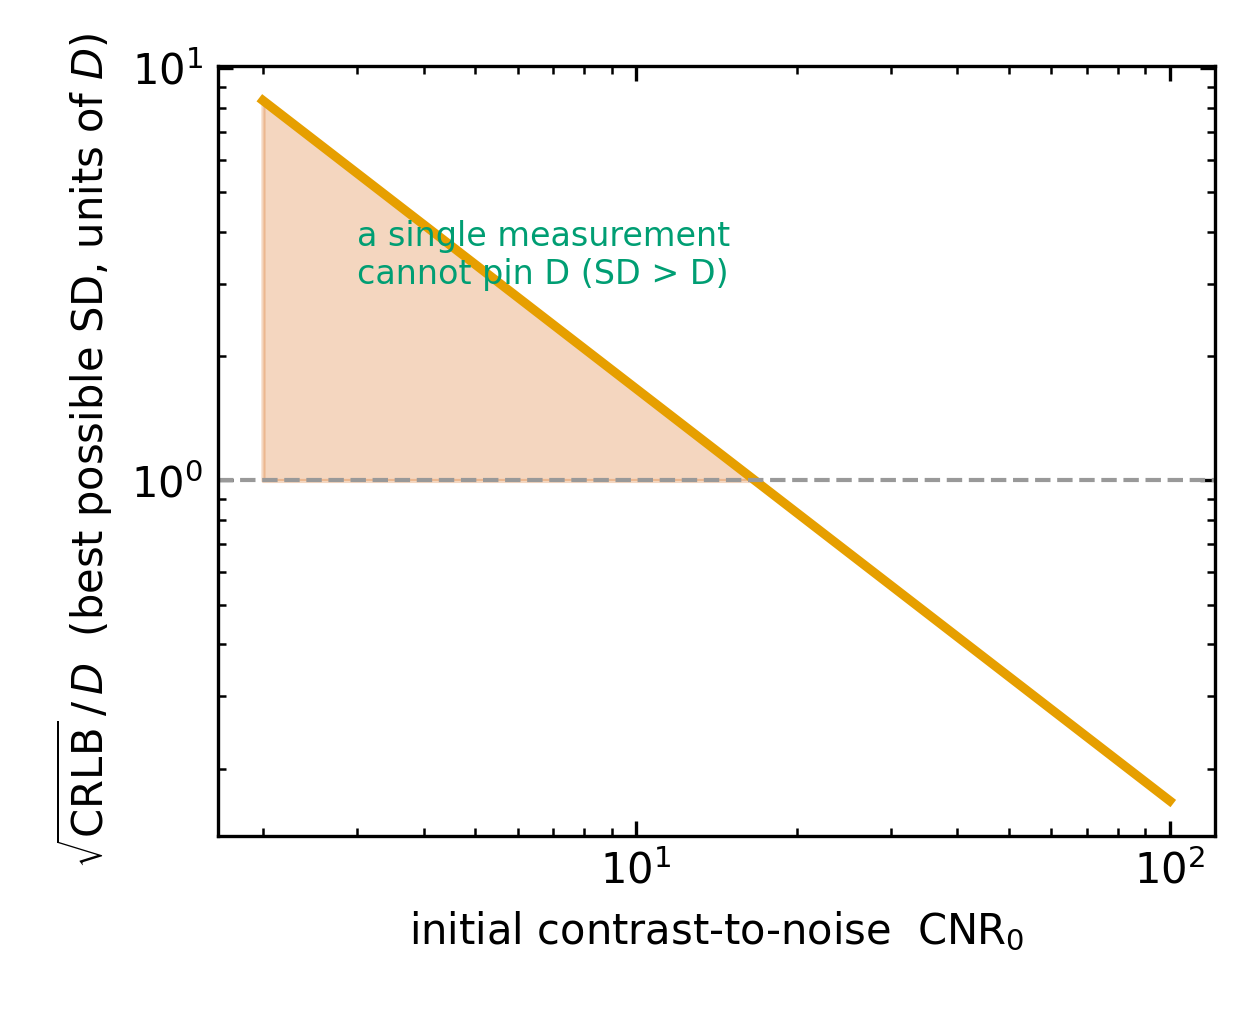
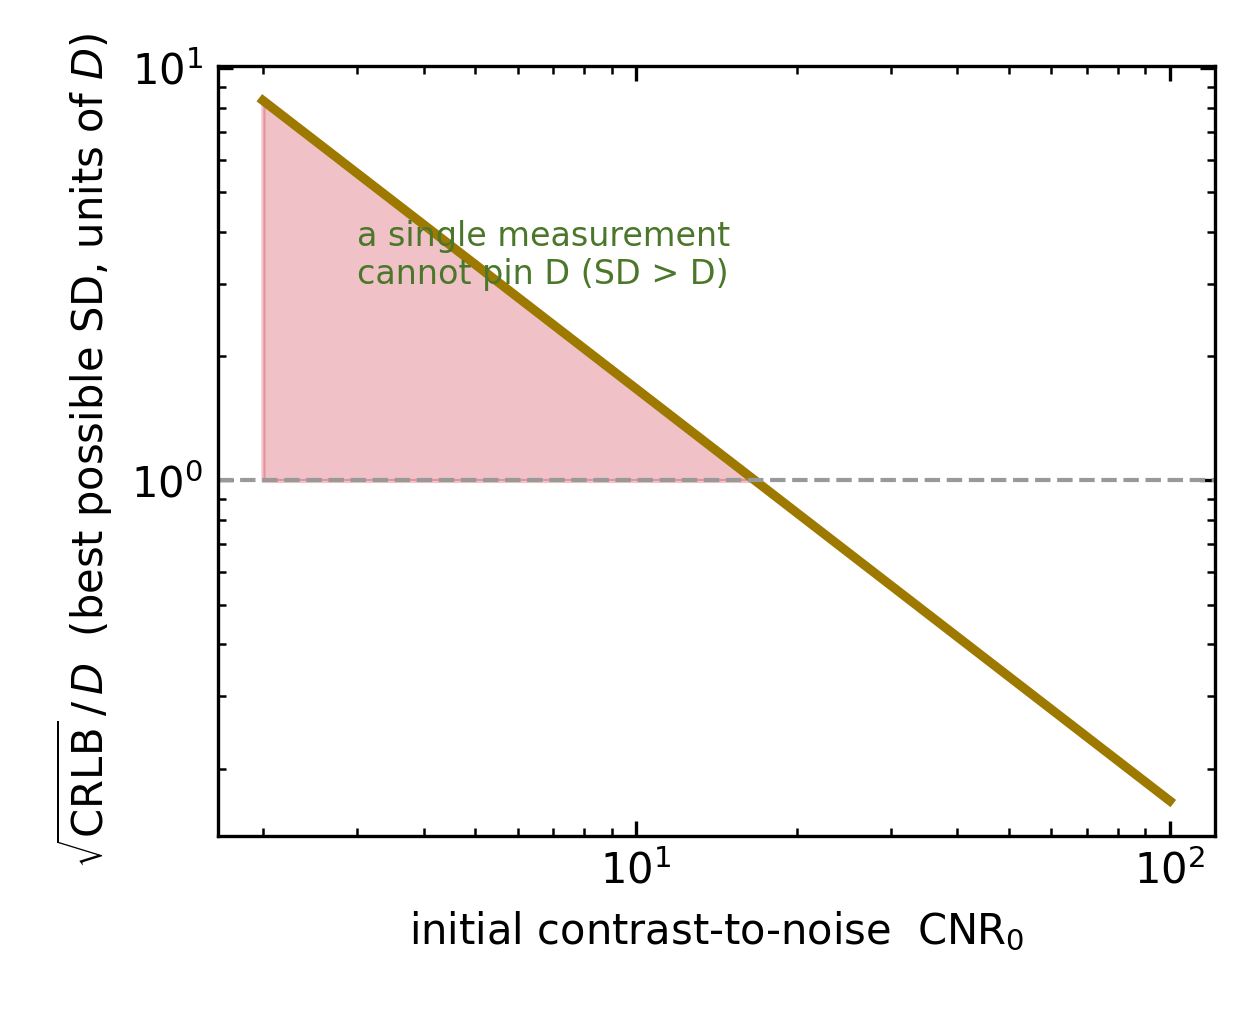
Switch poster palette to Spanish flag set, split wall-fold schematic into transparent per-panel images, refresh PLOT_STYLE doc

diff --git a/illustrations/wall-fold-schematic/build_wall_fold_schematic.py b/illustrations/wall-fold-schematic/build_wall_fold_schematic.py
@@ -1,11 +1,15 @@
 """Wall-and-fold schematic (poster Panel 2A): the wall at zero, the reflected
 tail, and the tilted MSD slope it produces.
 
-A pure matplotlib illustration -- no data input. Left panel: a fitted-variance
-distribution bounded at zero, with the forbidden negative tail folded back across
-the wall so the distribution piles up and skews right (mean above the true value).
-Right panel: that per-frame bias grows as CNR falls across late frames, tilting the
-MSD slope and overestimating D. Writes the figure into this folder.
+A pure matplotlib illustration -- no data input. The left panel shows a
+fitted-variance distribution bounded at zero, with the forbidden negative tail
+folded back across the wall so the distribution piles up and skews right (mean
+above the true value). The right panel shows that per-frame bias growing as CNR
+falls across late frames, tilting the MSD slope and overestimating D.
+
+Each panel is written as its own image so the poster can place them
+independently, and every output is saved with a transparent background. A
+combined two-panel image is also written for callers that want both at once.
 
 Requires the sibling `curved-text` package (the curved on-curve labels):
     .venv/Scripts/python.exe -m pip install -e ../curved-text
@@ -26,18 +30,28 @@ import matplotlib.pyplot as plt  # noqa: E402
 
 from curved_text import CurvedText  # noqa: E402
 
-# Poster palette (Okabe-Ito, colourblind-safe): blue = the true value,
-# red = the biased/inflated value.
-ROLE1 = "#0072B2"   # mediterranean blue -- the true value
-ROLE4 = "#D55E00"   # spanish red        -- the biased / inflated value
+# Spanish flag palette (from the plot style guide). Three semantic
+# colours: blue = the true value, red = the biased/inflated value, indigo = the
+# fitted-variance distribution family (distribution of fits, unbounded estimate,
+# reflected tail, forbidden tail), drawn at descending alpha so the one hue
+# tells one story.
+ROLE1 = "#0077c8"   # blue     -- the true value
+ROLE4 = "#c60b1e"   # flag red -- the biased / inflated value
+INDIGO = "#540d6e"  # indigo   -- the fitted-variance distribution family
 
-OUT = Path(__file__).resolve().parent / "wall_fold_schematic.png"
+HERE = Path(__file__).resolve().parent
+OUT_LEFT = HERE / "wall_fold_schematic_left.png"
+OUT_RIGHT = HERE / "wall_fold_schematic_right.png"
+OUT_COMBINED = HERE / "wall_fold_schematic.png"
 
 
-def build() -> Path:
-    fig, (axL, axR) = plt.subplots(1, 2, figsize=(8.0, 3.4))
+def _plot_left(axL):
+    """Draw the fold-at-the-wall panel; return the curves the labels ride on.
 
-    # --- Left: the fold at the wall ---------------------------------------
+    Plotting must precede ``tight_layout``, but the CurvedText labels need the
+    settled display transform, so labelling is split into ``_label_left`` and
+    called after layout.
+    """
     v = np.linspace(-3.0, 4.0, 700)
     m_true, sd = 0.5, 1.1
     g_un = np.exp(-0.5 * ((v - m_true) / sd) ** 2)     # estimate with no wall
@@ -55,19 +69,19 @@ def build() -> Path:
     m_folded = (np.trapezoid(v[pos] * folded[pos], v[pos])
                 / np.trapezoid(folded[pos], v[pos]))
 
-    axL.fill_between(v[pos], 0, g[pos], color=ROLE4, alpha=0.15, lw=0)
-    axL.fill_between(v[pos], 0, g_ref[pos], color=ROLE4, alpha=0.15, lw=0)
-    # One hue (the three are one story); alpha ranks them: faint = the
-    # hypothetical unbounded estimate, medium = the reflected mechanism, full =
-    # the resulting distribution of fits.
-    axL.plot(v[pos], g[pos], color=ROLE4, lw=1.8, alpha=0.40)              # realizable
-    axL.plot(v[~pos], g[~pos], color=ROLE4, lw=1.4, alpha=0.40,
+    axL.fill_between(v[pos], 0, g[pos], color=INDIGO, alpha=0.15, lw=0)
+    axL.fill_between(v[pos], 0, g_ref[pos], color=INDIGO, alpha=0.15, lw=0)
+    # One hue (the distribution family is one story); alpha ranks them: faint =
+    # the hypothetical unbounded estimate, medium = the reflected mechanism,
+    # full = the resulting distribution of fits.
+    axL.plot(v[pos], g[pos], color=INDIGO, lw=1.8, alpha=0.40)             # realizable
+    axL.plot(v[~pos], g[~pos], color=INDIGO, lw=1.4, alpha=0.40,
              ls=(0, (1, 1.6)))                                            # forbidden
-    axL.plot(v[pos], g_ref[pos], color=ROLE4, lw=1.6, alpha=0.70)          # reflected
-    axL.plot(v[pos], folded[pos], color=ROLE4, lw=1.8, ls=(0, (4, 2)))     # sum (fits)
+    axL.plot(v[pos], g_ref[pos], color=INDIGO, lw=1.6, alpha=0.70)         # reflected
+    axL.plot(v[pos], folded[pos], color=INDIGO, lw=1.8, ls=(0, (4, 2)))    # sum (fits)
     axL.axvline(0.0, color="k", lw=1.6)
     axL.axvline(m_true, color=ROLE1, ls=":", lw=1.1)
-    axL.axvline(m_folded, color="#7a2f00", ls=":", lw=1.1)
+    axL.axvline(m_folded, color=ROLE4, ls=":", lw=1.1)
 
     # The bias is the gap between the two; the names run vertically along their
     # own dotted lines. Bias sits to the right of the arrow, level with it.
@@ -80,7 +94,7 @@ def build() -> Path:
     axL.text(m_true - 0.13, 2.40, "true $\\sigma^2$", fontsize=7, color=ROLE1,
              rotation=90, rotation_mode="anchor", va="center", ha="right")
     axL.text(m_folded - 0.13, 2.40, "mean $\\langle\\hat\\sigma^2\\rangle$",
-             fontsize=7, color="#7a2f00", rotation=90, rotation_mode="anchor",
+             fontsize=7, color=ROLE4, rotation=90, rotation_mode="anchor",
              va="center", ha="right")
 
     axL.set_xlabel("fitted variance,  $\\hat\\sigma^2$")
@@ -90,7 +104,29 @@ def build() -> Path:
     axL.set_xticks([])
     axL.set_yticks([])
 
-    # --- Right: the tilted MSD slope --------------------------------------
+    return {"v": v, "g": g, "g_ref": g_ref, "folded": folded}
+
+
+def _label_left(axL, data):
+    """Curve names run parallel to each curve and close to it. The rotation
+    needs the settled display transform, so this is called after layout."""
+    v, g, g_ref, folded = data["v"], data["g"], data["g_ref"], data["folded"]
+    fm = (v >= -2.4) & (v <= -0.3)
+    CurvedText(v[fm], g[fm], "forbidden:  variance < 0", axL, offset=5.0,
+               pos=0.5, anchor="center", color=INDIGO, alpha=0.7, fontsize=7)
+    sm = (v >= 0.3) & (v <= 2.3)
+    CurvedText(v[sm], folded[sm], "distribution of fits", axL, offset=5.0,
+               pos=0.6, anchor="center", color=INDIGO, fontsize=7)
+    um = (v >= 1.0) & (v <= 3.2)
+    CurvedText(v[um], g[um], "unbounded estimate", axL, offset=-6.0,
+               pos=0.4, anchor="center", color=INDIGO, fontsize=7)
+    rm = (v >= 0.4) & (v <= 2.4)
+    CurvedText(v[rm], g_ref[rm], "reflected tail", axL, offset=5.5,
+               pos=0.65, anchor="center", color=INDIGO, fontsize=7)
+
+
+def _plot_right(axR):
+    """Draw the tilted-MSD-slope panel; return the curves the labels ride on."""
     t = np.linspace(0, 3.0, 7)
     slope_true = 0.04
     true_line = slope_true * t
@@ -107,7 +143,7 @@ def build() -> Path:
         axR.plot([ti, ti], [tr, bi], color="#bbb", lw=0.8, zorder=0)
 
     # The slope-gap annotation is the payload; the two line labels are added after
-    # layout (below), rotated to the line slope and pushed to opposite sides.
+    # layout (in _label_right), rotated to the line slope and pushed to opposite sides.
     axR.annotate("", xy=(2.93, fit_line[-1]), xytext=(2.93, true_line[-1]),
                  arrowprops=dict(arrowstyle="<->", color="k", lw=0.9,
                                  mutation_scale=8))
@@ -121,33 +157,59 @@ def build() -> Path:
     axR.set_xticks([])
     axR.set_yticks([])
 
-    fig.tight_layout()
+    return {"t": t, "true_line": true_line, "fit_line": fit_line}
 
-    # Right panel: label both lines with CurvedText at the same fractional
-    # position on each line, offset to opposite sides so they hug their lines.
+
+def _label_right(axR, data):
+    """Label both lines with CurvedText at the same fractional position on each
+    line, offset to opposite sides so they hug their lines. Called after layout."""
+    t, true_line, fit_line = data["t"], data["true_line"], data["fit_line"]
     CurvedText(t, fit_line, "inflated fit", axR, pos=0.4, anchor="center",
                offset=5.0, color=ROLE4, fontsize=7)
     CurvedText(t, true_line, "true slope $\\propto D$", axR, pos=0.4,
                anchor="center", offset=-5.0, color=ROLE1, fontsize=7)
 
-    # Curve names run parallel to each curve and close to it (the rotation needs
-    # the settled display transform, so this comes after the layout).
-    fm = (v >= -2.4) & (v <= -0.3)
-    CurvedText(v[fm], g[fm], "forbidden:  variance < 0", axL, offset=5.0,
-               pos=0.5, anchor="center", color=ROLE4, alpha=0.7, fontsize=7)
-    sm = (v >= 0.3) & (v <= 2.3)
-    CurvedText(v[sm], folded[sm], "distribution of fits", axL, offset=5.0,
-               pos=0.6, anchor="center", color=ROLE4, fontsize=7)
-    um = (v >= 1.0) & (v <= 3.2)
-    CurvedText(v[um], g[um], "unbounded estimate", axL, offset=-6.0,
-               pos=0.4, anchor="center", color=ROLE4, fontsize=7)
-    rm = (v >= 0.4) & (v <= 2.4)
-    CurvedText(v[rm], g_ref[rm], "reflected tail", axL, offset=5.5,
-               pos=0.65, anchor="center", color=ROLE4, fontsize=7)
-    fig.savefig(OUT, dpi=300)
+
+def build_left() -> Path:
+    """Standalone left panel (the fold at the wall), transparent background."""
+    fig, axL = plt.subplots(figsize=(4.0, 3.4))
+    data = _plot_left(axL)
+    fig.tight_layout()
+    _label_left(axL, data)
+    fig.savefig(OUT_LEFT, dpi=300, transparent=True)
     plt.close(fig)
-    return OUT
+    return OUT_LEFT
+
+
+def build_right() -> Path:
+    """Standalone right panel (the tilted MSD slope), transparent background."""
+    fig, axR = plt.subplots(figsize=(4.0, 3.4))
+    data = _plot_right(axR)
+    fig.tight_layout()
+    _label_right(axR, data)
+    fig.savefig(OUT_RIGHT, dpi=300, transparent=True)
+    plt.close(fig)
+    return OUT_RIGHT
+
+
+def build_combined() -> Path:
+    """Both panels side by side in one image, transparent background."""
+    fig, (axL, axR) = plt.subplots(1, 2, figsize=(8.0, 3.4))
+    data_l = _plot_left(axL)
+    data_r = _plot_right(axR)
+    fig.tight_layout()
+    _label_left(axL, data_l)
+    _label_right(axR, data_r)
+    fig.savefig(OUT_COMBINED, dpi=300, transparent=True)
+    plt.close(fig)
+    return OUT_COMBINED
+
+
+def build() -> list[Path]:
+    """Write both standalone panels and the combined image. Returns the paths."""
+    return [build_left(), build_right(), build_combined()]
 
 
 if __name__ == "__main__":
-    print(build())
+    for path in build():
+        print(path)

diff --git a/scripts/poster_style.py b/scripts/poster_style.py
@@ -15,17 +15,22 @@ from pathlib import Path
 import numpy as np
 from matplotlib.colors import to_rgb
 
-# --- Poster palette (Okabe-Ito colourblind-safe set, Madrid-localised names) -
-# Five hues that stay distinguishable under common colour-vision deficiencies,
-# each legible on white. Roles carry fixed meaning: blue = the true value,
-# red = the biased/inflated value (true-vs-biased reads as blue-vs-red); blue /
-# gold / green are the three profile shapes; purple is reserved for fills and
-# region bands at low alpha.
-ROLE1 = "#0072B2"   # mediterranean blue  -- the true value / Gaussian shape
-ROLE2 = "#E69F00"   # flag gold           -- fitted-variance curve / Voigt shape
-ROLE3 = "#009E73"   # olive green         -- generalized-Gaussian shape
-ROLE4 = "#D55E00"   # spanish red         -- the biased/inflated value
-ROLE5 = "#CC79A7"   # castilian purple    -- fills, region bands (use low alpha)
+# --- Poster palette (Spanish flag set, from the plot style guide) --
+# Five flag-themed hues that stay mutually distinguishable under red-green and
+# blue-yellow colour-vision deficiency. Roles carry fixed meaning: blue = the
+# true value, red = the biased/inflated value (true-vs-biased reads as
+# blue-vs-red); blue / yellow / green are the three profile shapes; indigo is
+# reserved for fills and region bands at low alpha. The set does not survive
+# grayscale (red / green / blue collapse to nearly one lightness), so never let
+# a red / green / blue distinction carry meaning that must read without colour.
+ROLE1 = "#0077c8"   # blue                 -- the true value / Gaussian shape
+ROLE2 = "#ffc400"   # flag yellow (gualda) -- fitted-variance curve / Voigt shape
+ROLE3 = "#4a7729"   # fern green           -- generalized-Gaussian shape
+ROLE4 = "#c60b1e"   # flag red             -- the biased/inflated value
+ROLE5 = "#540d6e"   # indigo               -- fills, region bands (use low alpha)
+# Flag yellow is bright and low-contrast on white; for thin lines or text in
+# yellow read against the page, use this deep companion instead (plot_style.md).
+YELLOW_DEEP = "#9E7900"  # deep gold        -- flag yellow as a thin line / text
 
 # DICE palette (Montana State; retained as a fallback for non-poster scripts).
 DICE_BLUE = "#003f7f"
@@ -39,10 +44,11 @@ SHAPE_LABEL = {
     "generalized_gaussian": "generalized-Gaussian",
     "genGauss": "generalized-Gaussian",
 }
-# One role colour per profile shape: roles 1 / 2 / 3 (the strong-contrast lines).
+# One role colour per profile shape (the strong-contrast lines). Voigt takes the
+# deep gold rather than bright flag yellow so the thin line reads on white.
 SHAPE_COLOR = {
     "gaussian": ROLE1,
-    "voigt": ROLE2,
+    "voigt": YELLOW_DEEP,
     "generalized_gaussian": ROLE3,
     "genGauss": ROLE3,
 }

diff --git a/experiments/dfree-calibration/render_bias_panels.py b/experiments/dfree-calibration/render_bias_panels.py
@@ -22,8 +22,8 @@ import matplotlib  # noqa: E402
 matplotlib.use("Agg")
 import matplotlib.pyplot as plt  # noqa: E402
 
-from poster_style import (ROLE2, ROLE4, ROLE5, SHAPE_COLOR, SHAPE_LABEL,  # noqa: E402
-                          parse_dense_deciles, style)
+from poster_style import (ROLE4, ROLE5, SHAPE_COLOR, SHAPE_LABEL,  # noqa: E402
+                          YELLOW_DEEP, parse_dense_deciles, style)
 
 DENSE = HERE / "dense_calibration_and_test.txt"
 OUT_BIAS = HERE / "poster_panel3_bias.png"
@@ -46,7 +46,7 @@ def build_bias_curves() -> Path | None:
     # failing one (inverse-variance) -- both biased relative to the unbiased line.
     ax.loglog(g["cnr"], g["ols"], "o-", ms=4, lw=2.0, color=ROLE4,
               label="unweighted (OLS)")
-    ax.loglog(g["cnr"], g["inv_var"], "o-", ms=4, lw=2.0, color=ROLE2,
+    ax.loglog(g["cnr"], g["inv_var"], "o-", ms=4, lw=2.0, color=YELLOW_DEEP,
               label="inverse-variance")
     ax.set_xlabel(r"initial contrast-to-noise  CNR$_0$")
     ax.set_ylabel(r"$\langle D_\mathrm{est}\rangle\,/\,D_\mathrm{true}$")
@@ -73,7 +73,7 @@ def build_corrected_bias() -> Path | None:
     ax.axhline(1.0, color="#666666", lw=1.0)
     for shape, d in shapes.items():
         ax.semilogx(d["cnr"], d["folded"], "o-", ms=4, lw=1.8,
-                    color=SHAPE_COLOR.get(shape, ROLE2),
+                    color=SHAPE_COLOR.get(shape, YELLOW_DEEP),
                     label=SHAPE_LABEL.get(shape, shape))
     ax.set_xlabel(r"initial contrast-to-noise  CNR$_0$")
     ax.set_ylabel(r"corrected  $\langle \hat D\rangle / D_\mathrm{true}$")

diff --git a/scripts/poster_figures.py b/scripts/poster_figures.py
@@ -34,7 +34,7 @@ import matplotlib  # noqa: E402
 matplotlib.use("Agg")
 import matplotlib.pyplot as plt  # noqa: E402
 
-from poster_style import ROLE1, ROLE2, ROLE3, style as _style  # noqa: E402
+from poster_style import ROLE1, ROLE3, YELLOW_DEEP, style as _style  # noqa: E402
 
 # Panel builders, each imported from its home (single source of truth).
 from build_measurement_schematic import build as figure_schematic_measurement  # noqa: E402
@@ -60,7 +60,7 @@ _FFTCNR_STYLE = {
     "Gaussian (p=2)": ("Gaussian", ROLE1),
     "heavy-tail (p=1.3)": ("gen-Gaussian (heavy tail)", ROLE3),
     "flat-top (p=4)": ("gen-Gaussian (flat top)", "#888888"),
-    "Voigt": ("Voigt", ROLE2),
+    "Voigt": ("Voigt", YELLOW_DEEP),
 }
 
 
@@ -160,7 +160,9 @@ def figure_fftcnr_white_vs_shot(white_npz: Path, shot_npz: Path) -> Path | None:
 def main() -> None:
     print("Producing poster figures...")
     print(f"  Panel 1 schematic (measurement):   {figure_schematic_measurement().name}")
-    print(f"  Panel 2A schematic (wall + fold):  {figure_schematic_wall_fold().name}")
+    wall_fold_paths = figure_schematic_wall_fold()
+    print(f"  Panel 2A schematic (wall + fold):  "
+          f"{', '.join(p.name for p in wall_fold_paths)}")
     p3 = build_bias_curves()
     if p3:
         print(f"  Panel 3 (bias curves):             {p3.name}")

diff --git a/experiments/correction-floor/render_floor_panel.py b/experiments/correction-floor/render_floor_panel.py
@@ -24,8 +24,8 @@ import matplotlib  # noqa: E402
 matplotlib.use("Agg")
 import matplotlib.pyplot as plt  # noqa: E402
 
-from poster_style import (ROLE2, SHAPE_COLOR, SHAPE_LABEL, parse_floor,  # noqa: E402
-                          style)
+from poster_style import (SHAPE_COLOR, SHAPE_LABEL, YELLOW_DEEP,  # noqa: E402
+                          parse_floor, style)
 
 OUT = HERE / "poster_panel5_floor.png"
 
@@ -54,7 +54,7 @@ def build() -> Path | None:
         cnr, resid, se = parse_floor(path)
         order = np.argsort(cnr)
         ax.semilogx(cnr[order], np.abs(resid[order]), "o-", ms=3, lw=1.6,
-                    color=SHAPE_COLOR.get(shape, ROLE2),
+                    color=SHAPE_COLOR.get(shape, YELLOW_DEEP),
                     label=SHAPE_LABEL.get(shape, shape))
     ax.set_xlabel(r"per-profile contrast-to-noise  CNR")
     ax.set_ylabel(r"$|$residual$|$  (in $\sigma_0^2$)")

diff --git a/experiments/crlb-precision/render_crlb_panel.py b/experiments/crlb-precision/render_crlb_panel.py
@@ -27,7 +27,7 @@ import matplotlib.pyplot as plt  # noqa: E402
 
 from weighting_wall.simulate import Experiment  # noqa: E402
 from crlb import crlb_D  # noqa: E402  (this folder)
-from poster_style import ROLE2, ROLE3, ROLE4, style  # noqa: E402
+from poster_style import ROLE3, ROLE4, YELLOW_DEEP, style  # noqa: E402
 
 OUT = HERE / "poster_panel4_crlb.png"
 
@@ -38,7 +38,7 @@ def build() -> Path:
     rel = np.array([np.sqrt(crlb_D(exp, c)) / exp.D for c in cnr0])
 
     fig, ax = plt.subplots(figsize=(4.2, 3.4))
-    ax.loglog(cnr0, rel, color=ROLE2, lw=2.2)
+    ax.loglog(cnr0, rel, color=YELLOW_DEEP, lw=2.2)
     ax.axhline(1.0, color="#999999", ls="--", lw=1.0)
     ax.fill_between(cnr0, 1.0, rel, where=(rel >= 1.0), color=ROLE4, alpha=0.25)
     ax.annotate("a single measurement\ncannot pin D (SD > D)",
